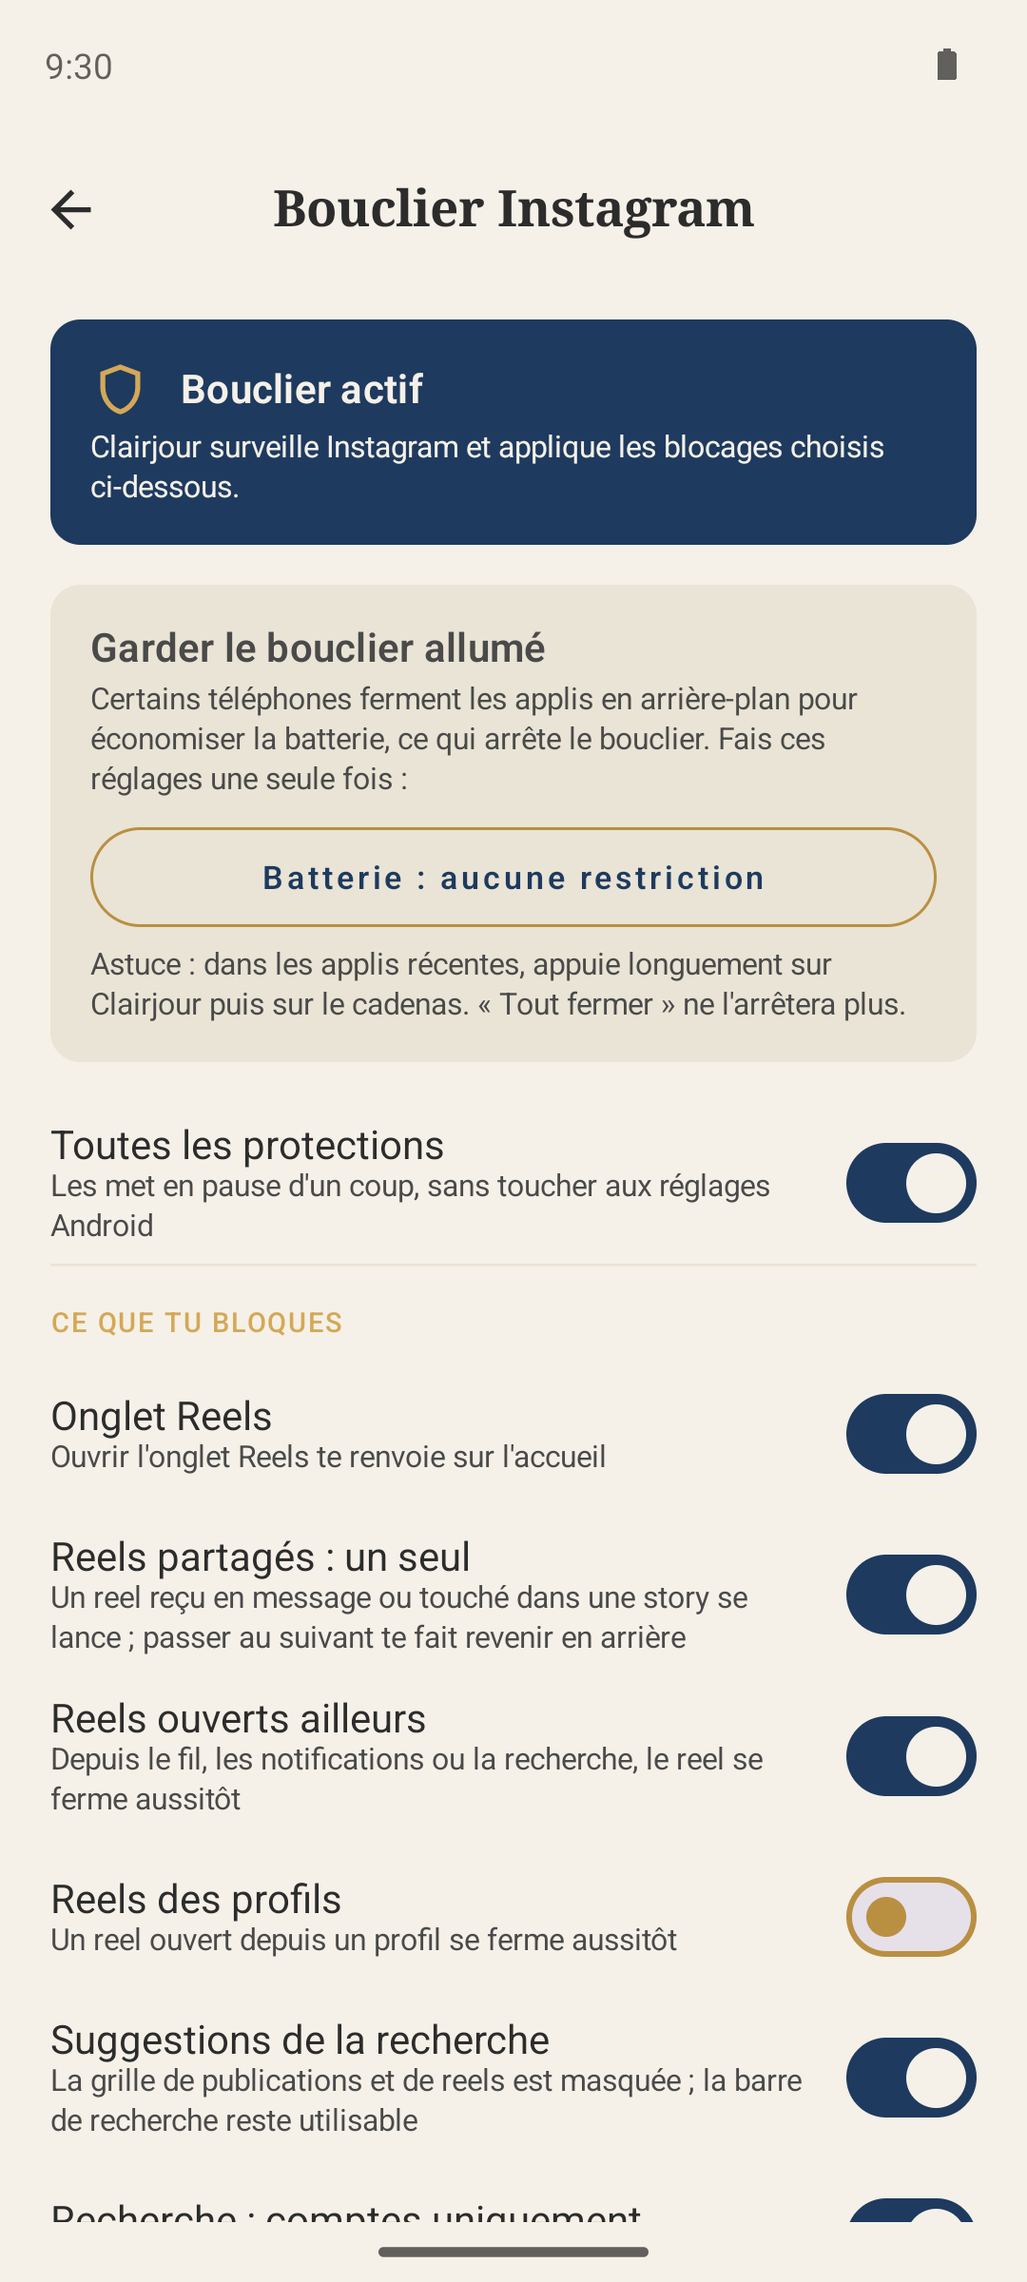
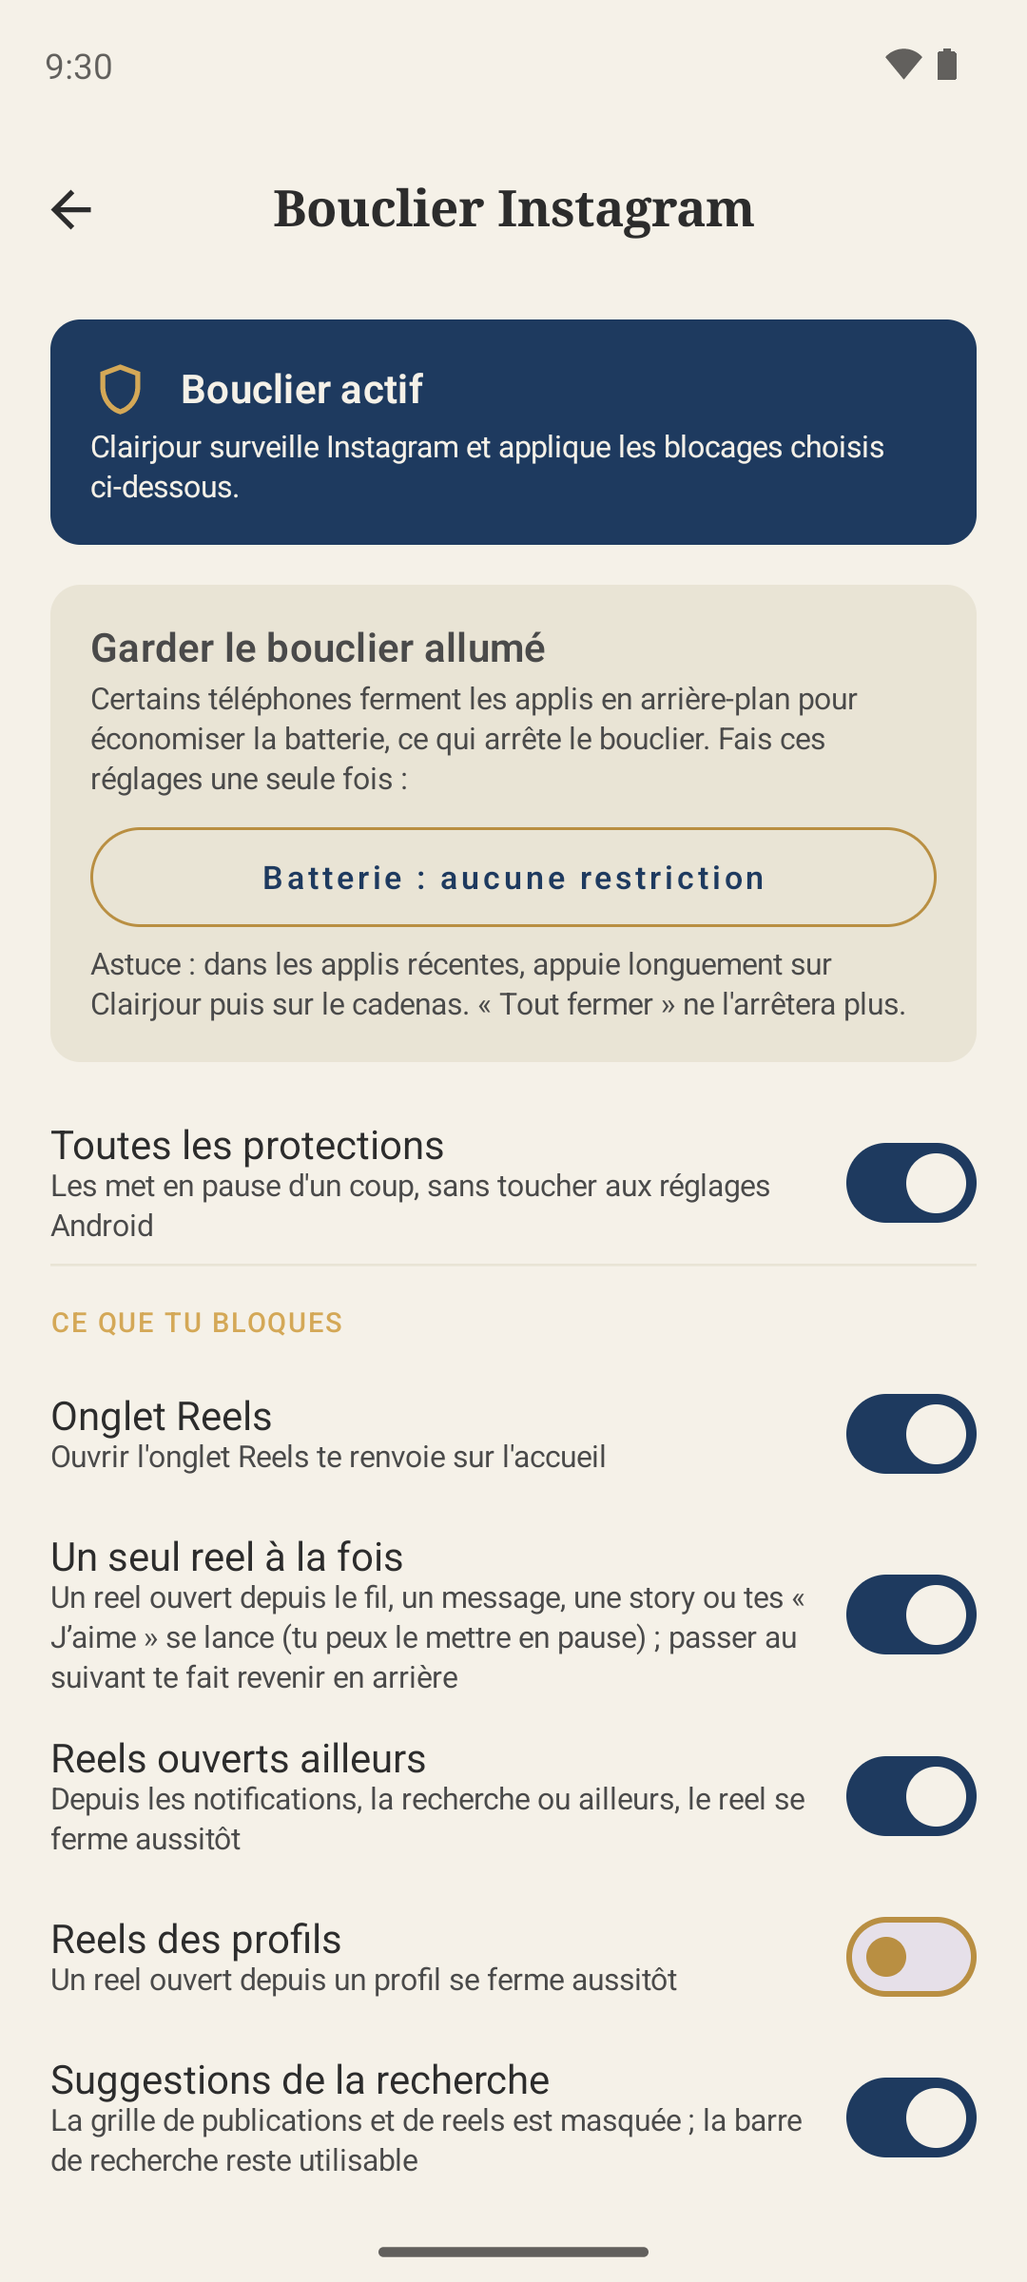
Shield: one reel at a time from the feed and likes
- Reels opened from the home feed or "Your activity > Likes" now play
  (so they can be paused) and swiping to the next one goes back, like
  shared reels; the rule is renamed "One reel at a time"
- Recognise the feed while Instagram marks no tab as selected, and the
  messages tab whose inbox uses the same list id
- Identify a reel by its author only (author view, or "Reel de X."
  description), keeping the first username of collaborations: other
  labels flickered and long-pressing for 2x speed looked like a swipe
- Refresh the shield screenshot

diff --git a/app/src/main/kotlin/com/clairjour/app/shield/InstagramScreenClassifier.kt b/app/src/main/kotlin/com/clairjour/app/shield/InstagramScreenClassifier.kt
@@ -2,10 +2,10 @@ package com.clairjour.app.shield
 
 import com.clairjour.app.shield.InstagramSelectors as Selectors
 
-enum class InstagramTab { HOME, SEARCH, REELS, PROFILE }
+enum class InstagramTab { HOME, SEARCH, REELS, DIRECT, PROFILE }
 
 /** Where the user is in Instagram, used to know where a reel was opened from. */
-enum class InstagramSurface { HOME_FEED, SEARCH, REELS_TAB, DIRECT, PROFILE, STORY, OTHER }
+enum class InstagramSurface { HOME_FEED, SEARCH, REELS_TAB, DIRECT, LIKED_POSTS, PROFILE, STORY, OTHER }
 
 /** Tabs displayed after submitting a search ("Accounts", "Reels", "For you"...). */
 data class SearchResultTabs(val accountsSelected: Boolean)
@@ -18,6 +18,8 @@ data class InstagramScreen(
     val reelContentKey: String? = null,
     val storyViewer: Boolean = false,
     val directThread: Boolean = false,
+    /** "Your activity > Likes" grid. */
+    val likedPosts: Boolean = false,
     val profile: Boolean = false,
     val exploreGridBounds: NodeBounds? = null,
     /** Home feed area below the stories tray. */
@@ -29,10 +31,14 @@ data class InstagramScreen(
             reelViewer && selectedTab == InstagramTab.REELS -> InstagramSurface.REELS_TAB
             storyViewer -> InstagramSurface.STORY
             directThread -> InstagramSurface.DIRECT
+            likedPosts -> InstagramSurface.LIKED_POSTS
             profile -> InstagramSurface.PROFILE
             selectedTab == InstagramTab.HOME -> InstagramSurface.HOME_FEED
             selectedTab == InstagramTab.SEARCH -> InstagramSurface.SEARCH
+            selectedTab == InstagramTab.DIRECT -> InstagramSurface.DIRECT
             selectedTab == InstagramTab.PROFILE -> InstagramSurface.PROFILE
+            // Instagram briefly marks no tab as selected when the feed comes back: the feed list is enough.
+            selectedTab == null && homeFeedBounds != null -> InstagramSurface.HOME_FEED
             else -> InstagramSurface.OTHER
         }
 }
@@ -40,7 +46,6 @@ data class InstagramScreen(
 object InstagramScreenClassifier {
 
     private const val SAME_ROW_TOLERANCE_PIXELS = 60
-    private const val REEL_KEY_MAX_LABELS = 3
 
     fun classify(root: ScreenNode): InstagramScreen {
         val nodes = root.walk().toList()
@@ -52,6 +57,10 @@ object InstagramScreenClassifier {
             reelContentKey = reelViewerNode?.let { reelContentKey(it) },
             storyViewer = nodes.any { Selectors.matchesAny(it.viewId, Selectors.storyViewerIds) },
             directThread = nodes.any { Selectors.matchesAny(it.viewId, Selectors.directThreadIds) },
+            likedPosts = nodes.any {
+                it.viewId == Selectors.ACTION_BAR_TITLE_ID &&
+                    it.label?.lowercase()?.trim() in Selectors.likedPostsTitleLabels
+            },
             profile = nodes.any { Selectors.containsAny(it.viewId, Selectors.profileIdFragments) },
             exploreGridBounds = exploreGridBounds(nodes),
             homeFeedBounds = homeFeedBounds(nodes),
@@ -64,6 +73,7 @@ object InstagramScreenClassifier {
             InstagramTab.HOME to Selectors.HOME_TAB_ID,
             InstagramTab.SEARCH to Selectors.SEARCH_TAB_ID,
             InstagramTab.REELS to Selectors.REELS_TAB_ID,
+            InstagramTab.DIRECT to Selectors.DIRECT_TAB_ID,
             InstagramTab.PROFILE to Selectors.PROFILE_TAB_ID
         )
         val bottomBarMinTop = root.bounds.top + (root.bounds.height * Selectors.BOTTOM_BAR_MIN_TOP_RATIO).toInt()
@@ -71,6 +81,7 @@ object InstagramScreenClassifier {
             InstagramTab.HOME to Selectors.homeTabLabels,
             InstagramTab.SEARCH to Selectors.searchTabLabels,
             InstagramTab.REELS to Selectors.reelsTabLabels,
+            InstagramTab.DIRECT to Selectors.directTabLabels,
             InstagramTab.PROFILE to Selectors.profileTabLabels
         )
         for ((node, selected) in root.walkWithSelection()) {
@@ -86,22 +97,25 @@ object InstagramScreenClassifier {
         return null
     }
 
+    /**
+     * Author of the visible reel. Only the author is used: other labels on the page (captions,
+     * "double tap to pause" hints) appear and disappear and would look like a swipe.
+     */
     private fun reelContentKey(pager: ScreenNode): String? {
         // The visible page is the largest child of the pager.
         val page = pager.children.maxByOrNull { it.bounds.height.coerceAtLeast(0) } ?: pager
-        val authorLabels = page.walk()
+        // Collaborations show "alice et bob" while the description only names "alice":
+        // keep the first username (usernames never contain spaces) so both sources agree.
+        page.walk()
             .filter { Selectors.matchesAny(it.viewId, Selectors.reelAuthorIds) }
-            .mapNotNull { it.label?.trim() }
-            .filter { it.isNotEmpty() }
-            .toList()
-        val labels = authorLabels.ifEmpty {
-            page.walk()
-                .mapNotNull { it.label?.trim() }
-                .filter { it.length >= 3 && it.any(Char::isLetter) }
-                .take(REEL_KEY_MAX_LABELS)
-                .toList()
-        }
-        return labels.takeIf { it.isNotEmpty() }?.joinToString("|")
+            .mapNotNull { it.label?.trim()?.substringBefore(' ') }
+            .firstOrNull { it.isNotEmpty() }
+            ?.let { return it }
+        // Fallback when the author view is momentarily missing: "Reel de alice. Appuyez…".
+        return page.walk()
+            .mapNotNull { node -> node.label?.let { Selectors.reelAuthorDescription.find(it) } }
+            .firstOrNull()
+            ?.groupValues?.get(1)
     }
 
     private fun exploreGridBounds(nodes: List<ScreenNode>): NodeBounds? {

diff --git a/app/src/test/kotlin/com/clairjour/app/shield/InstagramScreenClassifierTest.kt b/app/src/test/kotlin/com/clairjour/app/shield/InstagramScreenClassifierTest.kt
@@ -15,7 +15,7 @@ class InstagramScreenClassifierTest {
     private fun bottomBar(selected: String): ScreenNode = ScreenNode(
         viewId = "tab_bar",
         bounds = bottomBarBounds,
-        children = listOf("feed_tab", "search_tab", "clips_tab", "profile_tab").map {
+        children = listOf("feed_tab", "search_tab", "clips_tab", "direct_tab", "profile_tab").map {
             ScreenNode(viewId = it, isSelected = it == selected, bounds = bottomBarBounds)
         }
     )
@@ -42,11 +42,54 @@ class InstagramScreenClassifierTest {
     }
 
     @Test
+    fun `feed list counts as the feed while no tab is marked selected`() {
+        val feedList = ScreenNode(viewId = "android:id/list", bounds = NodeBounds(0, 100, 1080, 2250))
+        assertEquals(InstagramSurface.HOME_FEED, InstagramScreenClassifier.classify(root(feedList)).surface)
+
+        // The messages inbox uses the same list id: its selected tab wins.
+        val inbox = InstagramScreenClassifier.classify(root(feedList, bottomBar("direct_tab")))
+        assertEquals(InstagramSurface.DIRECT, inbox.surface)
+    }
+
+    @Test
+    fun `liked posts grid is recognised by its title`() {
+        val title = ScreenNode(viewId = "action_bar_title", text = "J’aime")
+        val screen = InstagramScreenClassifier.classify(root(title))
+        assertTrue(screen.likedPosts)
+        assertEquals(InstagramSurface.LIKED_POSTS, screen.surface)
+
+        val other = InstagramScreenClassifier.classify(root(ScreenNode(viewId = "action_bar_title", text = "Votre activité")))
+        assertFalse(other.likedPosts)
+    }
+
+    @Test
     fun `reel content key changes with the author`() {
         val first = InstagramScreenClassifier.classify(root(reelPager("alice")))
         val second = InstagramScreenClassifier.classify(root(reelPager("bob")))
         assertEquals("alice", first.reelContentKey)
         assertNotEquals(first.reelContentKey, second.reelContentKey)
+    }
+
+    @Test
+    fun `reel key falls back on the video description, never on other labels`() {
+        fun page(vararg labels: String) = root(
+            ScreenNode(
+                viewId = "clips_viewer_view_pager",
+                bounds = screenBounds,
+                children = listOf(ScreenNode(bounds = screenBounds, children = labels.map { ScreenNode(contentDescription = it) }))
+            )
+        )
+        val described = InstagramScreenClassifier.classify(
+            page("Reel de alice. Appuyez deux fois pour lire ou mettre en pause.", "Faites glisser vers le bas")
+        )
+        assertEquals("alice", described.reelContentKey)
+        assertEquals("alice", InstagramScreenClassifier.classify(root(reelPager("alice"))).reelContentKey)
+        assertNull(InstagramScreenClassifier.classify(page("Faites glisser vers le bas")).reelContentKey)
+        // A collaboration lists two authors, its description only the first one: same key.
+        assertEquals("mediapart", InstagramScreenClassifier.classify(root(reelPager("mediapart et anttonrouget"))).reelContentKey)
+        assertEquals("mediapart", InstagramScreenClassifier.classify(page("Reel de mediapart. Appuyez deux fois")).reelContentKey)
+        // Usernames may contain dots: the key must match the author view exactly.
+        assertEquals("flo.ran", InstagramScreenClassifier.classify(page("Reel de flo.ran. Appuyez deux fois")).reelContentKey)
     }
 
     @Test

diff --git a/app/src/main/kotlin/com/clairjour/app/shield/InstagramSelectors.kt b/app/src/main/kotlin/com/clairjour/app/shield/InstagramSelectors.kt
@@ -16,12 +16,15 @@ object InstagramSelectors {
     const val HOME_TAB_ID = "feed_tab"
     const val SEARCH_TAB_ID = "search_tab"
     const val REELS_TAB_ID = "clips_tab"
+    /** Messages tab: its inbox list has the same id as the home feed list. */
+    const val DIRECT_TAB_ID = "direct_tab"
     const val PROFILE_TAB_ID = "profile_tab"
 
     // Fallback when the tab ids change: content descriptions of the bottom tabs (FR + EN).
     val homeTabLabels = setOf("accueil", "home")
     val searchTabLabels = setOf("rechercher et explorer", "search and explore")
     val reelsTabLabels = setOf("reels")
+    val directTabLabels = setOf("envoyer un message", "messages", "direct")
     val profileTabLabels = setOf("profil", "profile")
 
     /** Bottom tabs are only trusted in the lower part of the screen (ratio of screen height). */
@@ -33,11 +36,18 @@ object InstagramSelectors {
     /** Author name inside a reel page: changes when swiping to the next reel. */
     val reelAuthorIds = setOf("clips_author_username")
 
+    /** Content description of the reel video, holding the author (FR + EN): "Reel de alice." */
+    val reelAuthorDescription = Regex("""^Reel (?:de|by) (\S+?)\.(?:\s|$)""")
+
     /** Stories and highlights player. */
     val storyViewerIds = setOf("reel_viewer_root")
 
     /** Direct message conversation. */
     val directThreadIds = setOf("thread_fragment_container", "row_thread_composer_edittext")
+
+    /** "Your activity > Likes" grid, recognised by its title (FR + EN, compared lowercase). */
+    const val ACTION_BAR_TITLE_ID = "action_bar_title"
+    val likedPostsTitleLabels = setOf("j’aime", "j'aime", "likes")
 
     /** Profile page (own or someone else's). */
     val profileIdFragments = listOf("profile_header_", "row_profile_header")

diff --git a/app/src/test/kotlin/com/clairjour/app/shield/ShieldEngineTest.kt b/app/src/test/kotlin/com/clairjour/app/shield/ShieldEngineTest.kt
@@ -59,6 +59,18 @@ class ShieldEngineTest {
     }
 
     @Test
+    fun `reel opened from the liked posts plays until the user swipes`() {
+        engine.onScreen(InstagramScreen(likedPosts = true), allRules)
+        advance()
+        assertTrue(engine.onScreen(reel("alice"), allRules).isEmpty())
+        advance()
+        assertEquals(
+            listOf(ShieldAction.GoBack(ShieldRule.DIRECT_SINGLE_REEL)),
+            engine.onScreen(reel("bob"), allRules)
+        )
+    }
+
+    @Test
     fun `reel key appearing late becomes the reference`() {
         engine.onScreen(directThread, allRules)
         advance()
@@ -79,8 +91,20 @@ class ShieldEngineTest {
     }
 
     @Test
-    fun `reel from the home feed goes back`() {
+    fun `reel from the home feed plays until the user swipes`() {
         engine.onScreen(homeFeed, allRules)
+        advance()
+        assertTrue(engine.onScreen(reel("alice"), allRules).isEmpty())
+        advance()
+        assertEquals(
+            listOf(ShieldAction.GoBack(ShieldRule.DIRECT_SINGLE_REEL)),
+            engine.onScreen(reel("bob"), allRules)
+        )
+    }
+
+    @Test
+    fun `reel from an unknown screen goes back`() {
+        engine.onScreen(InstagramScreen(), allRules)
         advance()
         assertEquals(listOf(ShieldAction.GoBack(ShieldRule.OTHER_REELS)), engine.onScreen(reel("alice"), allRules))
     }
@@ -98,7 +122,7 @@ class ShieldEngineTest {
 
     @Test
     fun `back actions are throttled`() {
-        engine.onScreen(homeFeed, allRules)
+        engine.onScreen(InstagramScreen(), allRules)
         advance()
         assertEquals(1, engine.onScreen(reel("alice"), allRules).size)
         advance(100)

diff --git a/app/src/main/kotlin/com/clairjour/app/shield/ShieldEngine.kt b/app/src/main/kotlin/com/clairjour/app/shield/ShieldEngine.kt
@@ -70,8 +70,10 @@ class ShieldEngine(private val clock: () -> Long) {
         reelSession = session
 
         return when (session.origin) {
-            // A reel shared in a message or tapped from a story plays; swiping to the next one goes back.
-            InstagramSurface.DIRECT, InstagramSurface.STORY -> {
+            // A reel shared in a message, tapped from a story, opened from the home feed or from the
+            // liked posts plays (so it can be paused); swiping to the next one goes back.
+            InstagramSurface.DIRECT, InstagramSurface.STORY, InstagramSurface.HOME_FEED,
+            InstagramSurface.LIKED_POSTS -> {
                 val swipedToAnotherReel = session.firstContentKey != null &&
                     screen.reelContentKey != null &&
                     screen.reelContentKey != session.firstContentKey

diff --git a/app/src/main/kotlin/com/clairjour/app/shield/ShieldRule.kt b/app/src/main/kotlin/com/clairjour/app/shield/ShieldRule.kt
@@ -7,10 +7,10 @@ enum class ShieldRule(val key: String, val enabledByDefault: Boolean) {
     /** Opening the Reels tab sends the user back to the home tab. */
     REELS_TAB("reels_tab", true),
 
-    /** A reel received in a conversation or opened from a story plays, swiping to the next one goes back. */
+    /** A reel opened from a conversation, a story, the home feed or the liked posts plays; swiping to the next one goes back. */
     DIRECT_SINGLE_REEL("direct_single_reel", true),
 
-    /** Reels opened from the home feed, notifications or anywhere else go back. */
+    /** Reels opened from notifications, search or anywhere else go back. */
     OTHER_REELS("other_reels", true),
 
     /** Reels opened from a profile go back. */

diff --git a/SUIVI.md b/SUIVI.md
@@ -68,6 +68,9 @@ Principe : `AccessibilityService` qui lit l'écran d'Instagram (app officielle i
 - [x] **B15** (2026-11-04) Vérifié sur le Redmi : avec démarrage auto autorisé, `SwipeUpClean` tue les 2 processus et Android relance `:shield` 1 s après
 - [x] **B16** (2026-11-04) Captures `docs/screenshots/` (émulateur Pixel_7, données fictives) + README + release v1.1.0 (APK signé)
 - [x] **B17** Corrections vues pendant les captures : nom du domaine en anglais à l'onboarding (« Tobacco ») → libellé traduit ; devise « ¤ » quand la langue de l'app n'a pas de pays → euro forcé ; texte illisible dans la carte « Bouclier actif » sur le Redmi (intents MIUI `AutoStartManagementActivity` / `HiddenAppsConfigActivity` à confirmer sur HyperOS)
+- [x] **B18** (2026-11-06) « Un seul reel à la fois » étendu au fil d'accueil et à « J'aime » (Votre activité) : le reel s'ouvre (pause possible), swiper → retour. Vérifié sur le Redmi (fil + J'aime)
+- [x] **B19** Corrections vues en mode diagnostic : fil non reconnu quand Instagram ne marque aucun onglet sélectionné ; faux swipe quand le nom d'auteur disparaît un instant (clé de reel = auteur uniquement)
+- [x] **B20** (2026-11-06) Appui long ×2 sur un reel en collaboration faisait sortir du reel : clé = premier nom d'utilisateur uniquement (« mediapart et anttonrouget » vs « Reel de mediapart. ») ; capture README du Bouclier refaite
 
 ## ⏳ Reste à faire
 - [ ] Installer et tester APK sur téléphone (`adb install app-debug.apk`)
@@ -85,6 +88,8 @@ Principe : `AccessibilityService` qui lit l'écran d'Instagram (app officielle i
 - **Bouclier — sélecteurs Instagram** : tous dans `shield/InstagramSelectors.kt` (Instagram appelle les Reels « clips » et les Stories « reels »). Après une MAJ Instagram qui casse la détection : activer le mode diagnostic (debug), `adb logcat -s ClairjourShield`, corriger les IDs.
 - **Bouclier — pas de filtre `packageNames`** dans `instagram_shield_service.xml` : volontaire, sinon le service ne voit pas Instagram passer en arrière-plan et le cache opaque resterait sur l'écran d'accueil. Les événements des autres apps sont ignorés dans le code.
 - **Bouclier — Xiaomi/HyperOS coupe le service** : sans « Démarrage automatique » + batterie « Pas de restrictions », HyperOS retire le service d'accessibilité (il peut même rester coché alors qu'il ne tourne plus). Le statut se base donc sur `AccessibilityManager.getEnabledAccessibilityServiceList` (services réellement liés) et pas seulement sur `ENABLED_ACCESSIBILITY_SERVICES`.
+- **Bouclier — onglet sélectionné instable** : au retour sur le fil, Instagram ne marque AUCUN onglet `SELECTED` pendant ~1 s → la liste `android:id/list` seule suffit à reconnaître le fil ; la boîte de messages a la même liste, d'où la détection de `direct_tab`.
+- **Bouclier — détection du swipe** : la clé d'un reel = nom de l'auteur (`clips_author_username`) ou, à défaut, celui de la description « Reel de X. » (les noms peuvent contenir des points). Collaborations : « alice et bob » → garder le premier nom. Ne jamais se rabattre sur d'autres libellés (sous-titres, « Appuyez deux fois… ») : ils clignotent et provoquent de faux swipes.
 - **Bouclier — démarrage auto HyperOS** : état lisible par `adb shell appops get <pkg> 10008` (`allow`/`ignore`), modifiable par `adb shell appops set <pkg> 10008 allow`. ⚠ Chaque `adb install -r` le remet à `ignore`.
 - **Bouclier — « non activé » alors que coché** : balayer Clairjour dans les récentes (HyperOS `SwipeUpClean`) tue le processus ; sans démarrage auto, HyperOS refuse de relancer le service (« process is not permitted to auto start ») → Android le classe en « Crashed services » et ne le relance plus tant que l'interrupteur n'est pas désactivé puis réactivé (ou l'appli réinstallée). Vérifier avec `adb shell dumpsys accessibility | grep -E "Bound|Crashed"`.
 - **Bouclier — processus `:shield`** : ne jamais lire `container`/la DB depuis le service (l'Application ne l'initialise pas dans ce processus). Les réglages du bouclier passent UNIQUEMENT par `ShieldSettingsStore` (une instance par processus) ; ne pas les remettre dans le DataStore `clairjour_prefs`, qui est mono-processus.
